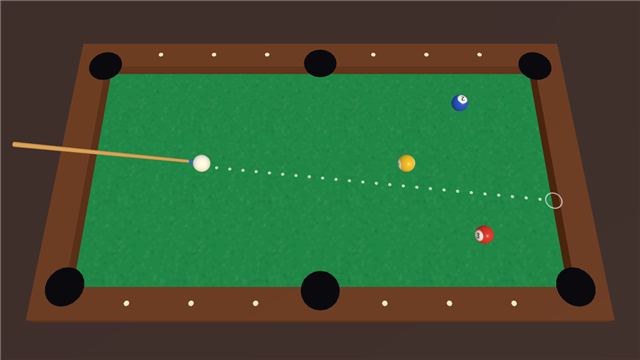
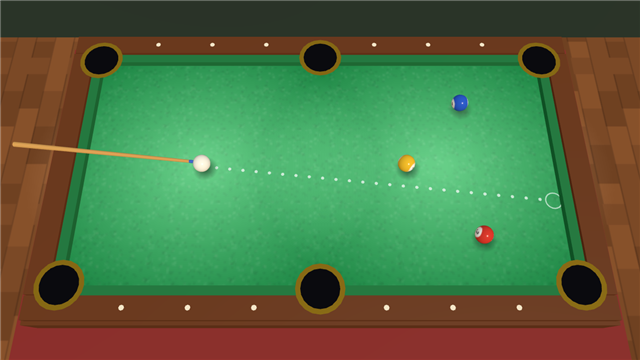
Gráficos: Tiro al Tótem con tótem tallado y águila, diana de paja, flechas con punta y plumas, estela, golpe en la diana y antorchas; portadas nuevas de Billar, Cocina y Tótem

diff --git a/src/juegos/punteria/totem.ts b/src/juegos/punteria/totem.ts
@@ -28,15 +28,45 @@ export async function crear(c: Contexto): Promise<Partida> {
   k.grupo.rotation.y = 2.6;
   k.animar('holding-right');
 
-  // Diana sobre un poste
-  const poste = caja(0.5, ALTO, 0.5, '#8a5a38');
-  poste.position.set(0, ALTO / 2 - 0.3, Z - 0.4);
-  diana.add(poste);
-  ANILLOS.forEach((color, i) => {
-    const disco = new THREE.Mesh(new THREE.CircleGeometry(RADIO * (1 - i / ANILLOS.length), 40), new THREE.MeshBasicMaterial({ color }));
-    disco.position.set(0, ALTO, Z + i * 0.01);
-    diana.add(disco);
-  });
+  // El tótem: cabezas talladas apiladas que sostienen la diana, y un águila con las alas abiertas arriba
+  const cara = (y: number, alto: number, color: string, boca: string) => {
+    const g = new THREE.Group(), bloque = new THREE.Mesh(new THREE.BoxGeometry(1.5, alto, 1), mat(color));
+    g.add(bloque);
+    for (const x of [-0.33, 0.33]) { const ojo = new THREE.Mesh(new THREE.BoxGeometry(0.34, 0.2, 0.08), mat('#f3ecdc')), pupila = new THREE.Mesh(new THREE.BoxGeometry(0.14, 0.16, 0.1), mat('#1a1a22')); ojo.position.set(x, alto * 0.18, 0.5); pupila.position.set(x, alto * 0.18, 0.52); g.add(ojo, pupila); }
+    const nariz = new THREE.Mesh(new THREE.ConeGeometry(0.13, 0.36, 4), mat('#3a2a20')); nariz.rotation.x = Math.PI / 2; nariz.position.set(0, -alto * 0.02, 0.58); g.add(nariz);
+    const labio = new THREE.Mesh(new THREE.BoxGeometry(0.8, 0.14, 0.08), mat(boca)); labio.position.set(0, -alto * 0.28, 0.5); g.add(labio);
+    for (const x of [-0.25, 0, 0.25]) { const diente = new THREE.Mesh(new THREE.BoxGeometry(0.12, 0.1, 0.1), mat('#f3ecdc')); diente.position.set(x, -alto * 0.28, 0.53); g.add(diente); }
+    g.position.set(0, y, Z - 0.45);
+    return g;
+  };
+  const altoCara = (ALTO - RADIO - 0.2) / 3;
+  ['#b5653a', '#3f8c7a', '#c9a227'].forEach((color, i) => diana.add(cara(altoCara * (i + 0.5), altoCara * 0.96, color, ['#ef5565', '#ffd23c', '#3f8cff'][i])));
+  const aguila = new THREE.Group(), cabeza = cara(0, 0.9, '#ef5565', '#ffd23c');
+  cabeza.position.set(0, 0, 0); aguila.add(cabeza);
+  const pico = new THREE.Mesh(new THREE.ConeGeometry(0.2, 0.6, 4), mat('#ffd23c')); pico.rotation.x = Math.PI / 2; pico.position.set(0, -0.05, 0.75); aguila.add(pico);
+  for (const lado of [-1, 1]) for (let k2 = 0; k2 < 3; k2++) { const pluma = new THREE.Mesh(new THREE.BoxGeometry(1.1 - k2 * 0.2, 0.32, 0.18), mat(['#3f8cff', '#ffd23c', '#ef5565'][k2])); pluma.position.set(lado * (1.25 + k2 * 0.35), 0.15 - k2 * 0.22, 0); pluma.rotation.z = lado * (0.35 + k2 * 0.12); aguila.add(pluma); }
+  aguila.position.set(0, ALTO + RADIO + 0.65, Z - 0.45);
+  diana.add(aguila);
+  // La diana: paja trenzada con anillos de colores (una textura) y los números de cada anillo
+  const lienzo = document.createElement('canvas'); lienzo.width = lienzo.height = 512;
+  const g = lienzo.getContext('2d')!;
+  ANILLOS.forEach((color, i) => { g.fillStyle = color; g.beginPath(); g.arc(256, 256, 256 * (1 - i / ANILLOS.length), 0, Math.PI * 2); g.fill(); });
+  for (let i = 0; i < 1400; i++) { const a = Math.random() * Math.PI * 2, d = Math.random() * 250; g.strokeStyle = Math.random() > 0.5 ? 'rgba(255,255,255,0.08)' : 'rgba(0,0,0,0.1)'; g.lineWidth = 2; g.beginPath(); g.moveTo(256 + Math.cos(a) * d, 256 + Math.sin(a) * d); g.lineTo(256 + Math.cos(a + 0.05) * d, 256 + Math.sin(a + 0.05) * d); g.stroke(); }
+  g.strokeStyle = 'rgba(0,0,0,0.35)'; g.lineWidth = 3;
+  ANILLOS.forEach((_, i) => { g.beginPath(); g.arc(256, 256, 256 * (1 - i / ANILLOS.length) - 1, 0, Math.PI * 2); g.stroke(); });
+  const texDiana = new THREE.CanvasTexture(lienzo); texDiana.colorSpace = THREE.SRGBColorSpace;
+  const cara0 = new THREE.Mesh(new THREE.CircleGeometry(RADIO, 48), new THREE.MeshLambertMaterial({ map: texDiana }));
+  cara0.position.set(0, ALTO, Z + 0.01);
+  diana.add(cara0);
+  // Antorchas tiki a los lados, con fuego que titila
+  const llamas: THREE.Mesh[] = [];
+  for (const x of [-4.4, 4.4]) {
+    const palo = caja(0.16, 3.2, 0.16, '#6f4826'); palo.position.set(x, 1.6, Z + 0.5);
+    const copa = new THREE.Mesh(new THREE.CylinderGeometry(0.3, 0.18, 0.45, 8), mat('#c9b25a')); copa.position.set(x, 3.4, Z + 0.5);
+    const llama = new THREE.Mesh(new THREE.ConeGeometry(0.26, 0.8, 7), new THREE.MeshBasicMaterial({ color: '#ffb02e' })); llama.position.set(x, 3.95, Z + 0.5);
+    const centro = new THREE.Mesh(new THREE.ConeGeometry(0.13, 0.45, 6), new THREE.MeshBasicMaterial({ color: '#fff2a0' })); centro.position.y = -0.1; llama.add(centro);
+    e.escena.add(palo, copa, llama); llamas.push(llama);
+  }
   const respaldo = new THREE.Mesh(new THREE.CylinderGeometry(RADIO + 0.2, RADIO + 0.2, 0.3, 40), mat('#a06a3c'));
   respaldo.rotation.x = Math.PI / 2;
   respaldo.position.set(0, ALTO, Z - 0.17);
@@ -58,14 +88,16 @@ export async function crear(c: Contexto): Promise<Partida> {
   const moldeFlecha = new THREE.Group(), asta = new THREE.Mesh(new THREE.CylinderGeometry(0.035, 0.035, 1.5, 6), mat('#e9dcc0'));
   asta.rotation.x = Math.PI / 2;
   asta.position.z = 0.75;
-  const plumas = caja(0.24, 0.24, 0.3, '#ef5565');
-  plumas.position.z = 1.45;
-  moldeFlecha.add(asta, plumas);
+  const punta = new THREE.Mesh(new THREE.ConeGeometry(0.07, 0.22, 6), new THREE.MeshStandardMaterial({ color: '#c9ccd6', metalness: 0.7, roughness: 0.3 }));
+  punta.rotation.x = -Math.PI / 2; punta.position.z = -0.08;
+  moldeFlecha.add(asta, punta);
+  for (let i = 0; i < 3; i++) { const pluma = new THREE.Mesh(new THREE.BoxGeometry(0.02, 0.18, 0.34), mat(i ? '#ffffff' : '#ef5565')); pluma.position.set(0, 0, 1.38); const eje = new THREE.Group(); eje.rotation.z = (i / 3) * Math.PI * 2; pluma.position.y = 0.08; eje.add(pluma); eje.position.z = 0; moldeFlecha.add(eje); }
 
   const apunte = new THREE.Vector2(0, ALTO), plano = new THREE.Plane(new THREE.Vector3(0, 0, 1), -Z), toque = new THREE.Vector3();
   const mover = (ev: PointerEvent) => { if (e.apuntar(ev).ray.intersectPlane(plano, toque)) apunte.set(limitar(toque.x, -5, 5), limitar(toque.y, 0.8, 8.5)); };
   e.escuchar(e.lienzo, 'pointermove', mover);
 
+  let sacudida = 0;
   let flecha = 0, puntos = 0, centros = 0, fallidas = 0, mejor = 0, terminado = false, turno = 0.5, libre = 0;
   let vuelo: { o: THREE.Object3D; desde: THREE.Vector3; hasta: THREE.Vector3; t0: number } | null = null;
   const tiros: number[] = [];
@@ -103,7 +135,10 @@ export async function crear(c: Contexto): Promise<Partida> {
   if (import.meta.env.DEV) (window as unknown as { __juego: Record<string, unknown> }).__juego.estado = () => ({ apunte: apunte.toArray(), mira: mira.position.toArray(), tiros, vuelo: vuelo?.hasta.toArray() });
   anunciar();
   e.hud.puntos(0);
-  e.alCuadro((t) => {
+  e.alCuadro((t, dt) => {
+    llamas.forEach((l, i) => { const f2 = 1 + Math.sin(t * 13 + i * 2.1) * 0.12; l.scale.set(f2, 1 + Math.sin(t * 17 + i) * 0.18, f2); });
+    sacudida = Math.max(0, sacudida - dt * 4); cara0.position.z = Z + 0.01 - Math.sin(sacudida * 20) * sacudida * 0.08;
+    aguila.children.forEach((p, i) => { if (i > 1) p.rotation.x = Math.sin(t * 3 + i) * 0.05; });
     // La mira sigue al dedo pero se mece; cada flecha se mece un poco más
     const meneo = (0.34 + flecha * 0.03) * (1 + (c.nivel - 1) * 0.1);
     mira.position.x = apunte.x + (Math.sin(t * 1.7) + Math.sin(t * 2.9) * 0.5) * meneo;
@@ -115,11 +150,11 @@ export async function crear(c: Contexto): Promise<Partida> {
       const q = limitar((t - vuelo.t0) / VUELO, 0, 1);
       vuelo.o.position.lerpVectors(vuelo.desde, vuelo.hasta, q);
       vuelo.o.position.y += Math.sin(q * Math.PI) * 0.7;
-      if (q < 1) return;
+      if (q < 1) { e.chispas(vuelo.o.position.x, vuelo.o.position.y, vuelo.o.position.z + 0.6, ['#ffffff', '#fff2a0'], 1, 0.4); return; }
       vuelo.o.position.copy(vuelo.hasta);
       const d = Math.hypot(vuelo.hasta.x - diana.position.x, vuelo.hasta.y - ALTO), gana = d > RADIO ? 0 : Math.max(10, Math.ceil((1 - d / RADIO) * 10) * 10);
       if (!gana) { fallidas++; e.escena.remove(vuelo.o); }
-      else diana.attach(vuelo.o); // la flecha queda clavada y se mueve con la diana
+      else { diana.attach(vuelo.o); sacudida = 1; e.chispas(vuelo.hasta.x, vuelo.hasta.y, Z + 0.3, gana >= 90 ? ['#ffd23c', '#ffffff', '#ef5565'] : ['#d9b46a', '#8a5a38'], gana >= 90 ? 30 : 10, gana >= 90 ? 5 : 2.5); } // la flecha queda clavada y se mueve con la diana
       if (gana >= 90) centros++;
       mejor = Math.max(mejor, gana);
       puntos += gana;
